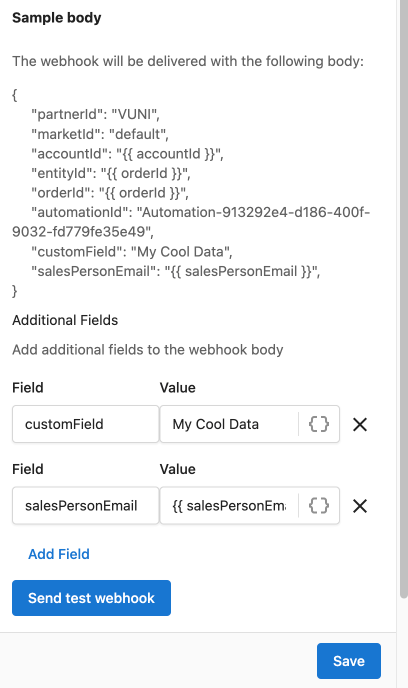
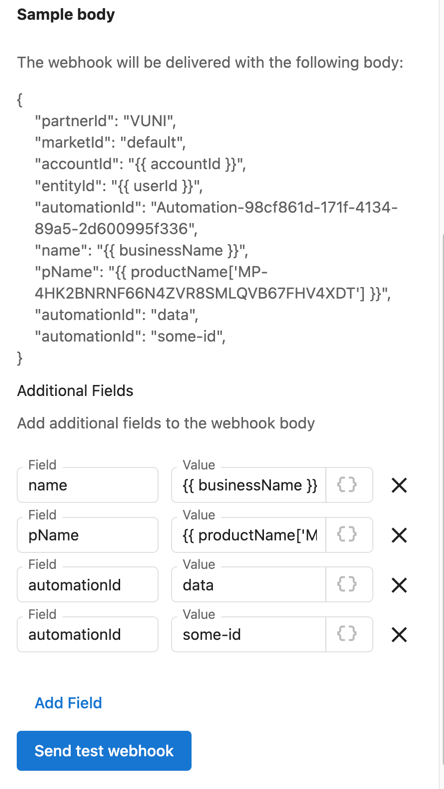
Clarify additional fields add a newer picture with new styles that includes an example

diff --git a/docs/Guides/Automate/WebhookAction.md b/docs/Guides/Automate/WebhookAction.md
@@ -25,7 +25,9 @@ For testing purposes [webhook.site](https://webhook.site/) is a great tool for v
 
 The **Verifier Token** is something that you can makeup. We will send it along with the webhook to help you verify that the request actually came from us.
 
-> Coming soon is the ability to add additional fields to the request body. Be careful when including sensitive data. The requests are sent using https however we do not have a way to confirm the destination is under your team's control. Instead it is recommended to only send ids and then fetch up to date info using an API request. 
+Custom **Additional Fields** may be added to the request body. Be careful when including sensitive data. The requests are sent using https however we do not have a way to confirm the destination is under your team's control. Instead it is recommended to only send ids and then fetch up to date info using an API request. 
+
+Additional fields that share the same **field** or **key** with the original body will take precedence over the provided body. In the example below, `automationId` will have a value of `some-id`
 
 ![](webhookAddPart2.png)
 
